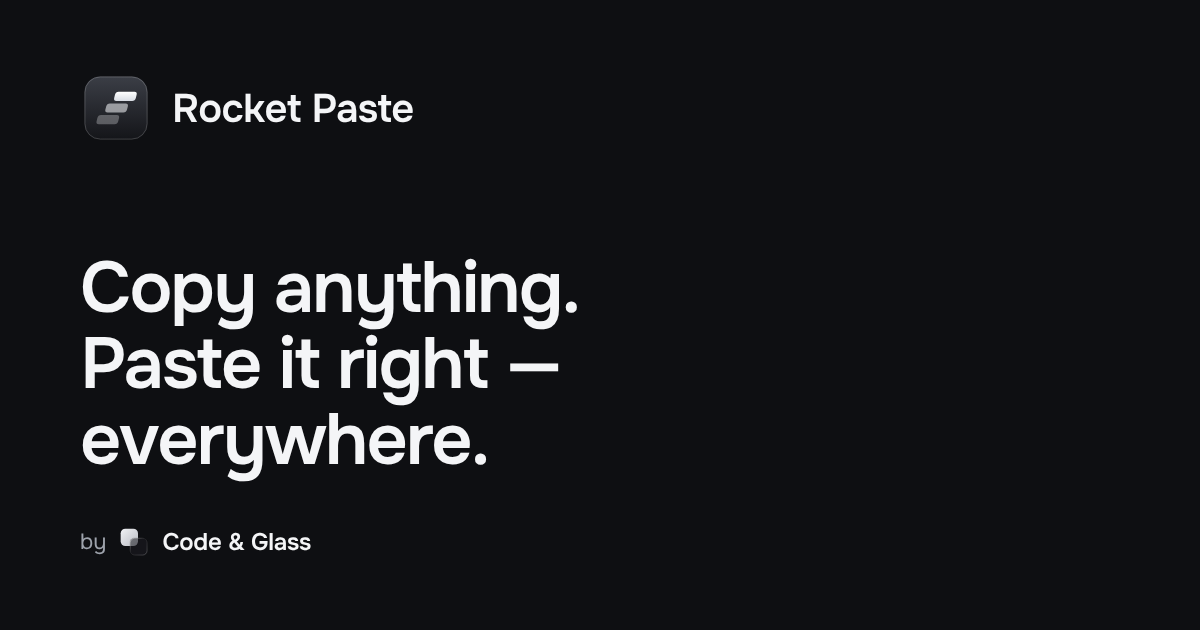
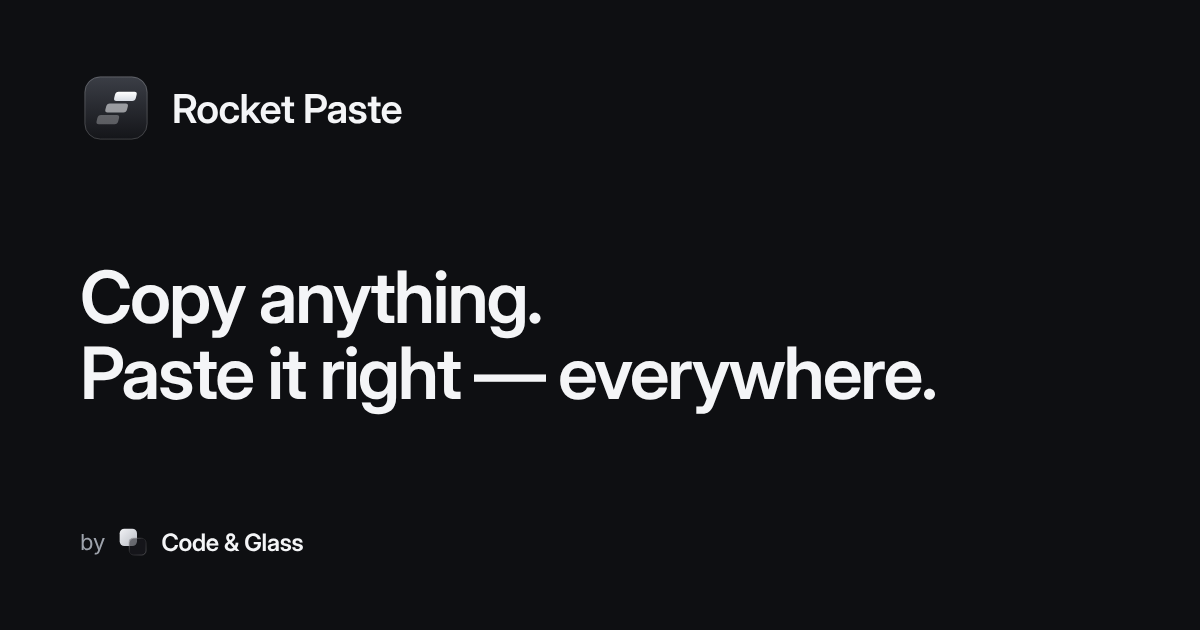
Placeholder page: Inter Display, background objects and copied cards
Back to Inter Display + Inter (founder decision). Background: steel objects
and depth-blurred cards of copied items. Coming soon pill. Share preview
centred. Mobile shows the chat only, no split or cropped UI. 50 KB per visit.

diff --git a/assets/style.css b/assets/style.css
@@ -1,1 +1,1 @@
-@font-face{font-family:"Onest";src:url(/assets/onest-600.woff2) format("woff2");font-weight:600;font-display:swap}@font-face{font-family:"Onest";src:url(/assets/onest-400.woff2) format("woff2");font-weight:400;font-display:swap}:root{color-scheme:light dark;--bg:#F5F6F8;--ink-1:#1F2126;--ink-2:#4A4D55;--ink-3:#6B707A;--line:rgb(20 25 35 / .08);--shell:#E9EBEE;--shell-edge:inset 0 1px 0 #fff,0 0 0 1px rgb(0 0 0 / .08);--sheet:#FFFFFF;--field:rgb(20 25 35 / .04);--kbd:#FFFFFF;--kbd-edge:0 0 0 .5px rgb(0 0 0 / .16),0 1px 0 rgb(0 0 0 / .06);--drop:#FFFFFF;--drop-edge:0 0 0 .5px rgb(0 0 0 / .1),0 2px 6px rgb(20 25 35 / .08);--primary:#2A2C31;--on-primary:#FFFFFF;--sel:rgb(20 25 35 / .045);--shadow:0 24px 48px rgb(20 25 35 / .12),0 4px 12px rgb(20 25 35 / .06);--bubble-in:#F0F1F3;--bubble-out:#E6EAF0;--att:rgb(255 255 255 / .7);--t-text:oklch(0.54 0.03 250);--t-image:oklch(0.54 0.07 150);--t-link:oklch(0.54 0.08 240);--t-code:oklch(0.54 0.07 195);--t-file:oklch(0.54 0.05 65);--t-color:oklch(0.54 0.07 340);--cg-a:#3B3E46;--cg-b:#141519;--cg-glass:rgb(232 234 238 / .7);--cg-line:rgb(0 0 0 / .16)}@media (prefers-color-scheme:dark){:root{--bg:#0E0F12;--ink-1:#F4F5F7;--ink-2:#C9CCD2;--ink-3:#9EA3AC;--line:rgb(255 255 255 / .08);--shell:#16171B;--shell-edge:inset 0 1px 0 rgb(255 255 255 / .08),0 0 0 1px rgb(0 0 0 / .6);--sheet:#1F2126;--field:rgb(255 255 255 / .05);--kbd:#2A2C32;--kbd-edge:inset 0 1px 0 rgb(255 255 255 / .08),0 0 0 .5px rgb(0 0 0 / .5);--drop:#2C2E34;--drop-edge:inset 0 1px 0 rgb(255 255 255 / .1),0 0 0 .5px rgb(0 0 0 / .5);--primary:#ECEDF0;--on-primary:#16171B;--sel:rgb(255 255 255 / .05);--shadow:0 24px 48px rgb(0 0 0 / .45),0 4px 12px rgb(0 0 0 / .3);--bubble-in:#24262B;--bubble-out:#2B3038;--att:rgb(255 255 255 / .06);--t-text:oklch(0.80 0.03 250);--t-image:oklch(0.80 0.07 150);--t-link:oklch(0.80 0.08 240);--t-code:oklch(0.80 0.07 195);--t-file:oklch(0.80 0.05 65);--t-color:oklch(0.80 0.07 340);--cg-a:#F1F2F5;--cg-b:#B9BCC4;--cg-glass:rgb(27 28 32 / .55);--cg-line:rgb(0 0 0 / .5)}}*{box-sizing:border-box;margin:0;padding:0}body{min-height:100vh;min-height:100dvh;display:flex;flex-direction:column;align-items:center;padding:32px 24px;background:var(--bg);color:var(--ink-1);font:16px/24px "Onest","Segoe UI Variable","Segoe UI",system-ui,-apple-system,sans-serif;-webkit-font-smoothing:antialiased}.i{fill:none;stroke:currentColor;stroke-width:1.5;stroke-linecap:round;stroke-linejoin:round;flex:none;display:block}.sr{position:absolute;width:1px;height:1px;overflow:hidden;clip:rect(0 0 0 0);white-space:nowrap}.brand{width:100%;max-width:1040px;display:flex;align-items:center;gap:8px;font:600 16px/24px "Onest",system-ui,sans-serif;letter-spacing:-.01em}.brand svg{display:block}main{flex:1;width:100%;max-width:1040px;display:flex;flex-direction:column;align-items:center;text-align:center;padding:96px 0 64px}h1{font:600 56px/60px "Onest",system-ui,sans-serif;letter-spacing:-.02em;max-width:720px;text-wrap:balance}.lead{margin-top:24px;max-width:560px;font-size:20px;line-height:28px;color:var(--ink-2);text-wrap:balance}.soon{margin-top:24px;font-size:12px;line-height:16px;font-weight:400;letter-spacing:.08em;text-transform:uppercase;color:var(--ink-3)}.mock{margin-top:64px;width:100%;display:flex;justify-content:center;align-items:flex-start;gap:32px;text-align:left;user-select:none;-webkit-user-select:none;pointer-events:none;font-family:"Segoe UI Variable","Segoe UI",system-ui,-apple-system,sans-serif;font-size:13px;line-height:18px}.mock *{-webkit-user-drag:none}.mn{font-family:ui-monospace,"Cascadia Mono",Consolas,monospace;font-size:12px}.pal{zoom:.84;width:760px;height:480px;flex:none;border-radius:20px;padding:10px 10px 0;display:flex;flex-direction:column;gap:10px;background:var(--shell);box-shadow:var(--shell-edge),var(--shadow)}.sh{background:var(--sheet);border-radius:10px;box-shadow:0 0 0 .5px var(--line)}.top{height:46px;flex:none;display:flex;align-items:center;gap:10px;padding:0 14px;color:var(--ink-3)}.q{flex:1;min-width:0;font-size:18px;line-height:24px;white-space:nowrap;overflow:hidden;text-overflow:ellipsis}.chip{display:flex;align-items:center;gap:4px;height:26px;padding:0 8px 0 10px;border-radius:8px;font-weight:600;font-size:12px;color:var(--ink-1);background:var(--kbd);box-shadow:var(--kbd-edge)}.bd{flex:1;display:flex;gap:10px;min-height:0}.list{width:296px;flex:none;padding:4px 8px;overflow:hidden}.grp{height:26px;display:flex;align-items:flex-end;padding:0 10px 5px;font-size:11px;font-weight:600;letter-spacing:.06em;text-transform:uppercase;color:var(--ink-3)}.row{height:40px;display:flex;align-items:center;gap:8px;padding:0 10px;border-radius:10px}.row.sel{background:var(--sel)}.row.on{background:var(--drop);box-shadow:var(--drop-edge)}.lb{flex:1;min-width:0;white-space:nowrap;overflow:hidden;text-overflow:ellipsis}.ap{font-size:11.5px;color:var(--ink-3)}.ti{width:24px;height:24px;flex:none;border-radius:7px;display:grid;place-items:center;color:var(--c);background:color-mix(in oklch,var(--c) 13%,transparent)}.t-code{--c:var(--t-code)}.t-link{--c:var(--t-link)}.t-text{--c:var(--t-text)}.t-file{--c:var(--t-file)}.t-color{--c:var(--t-color)}.t-image{--c:var(--t-image)}.num{width:18px;height:18px;flex:none;border-radius:9px;display:grid;place-items:center;font-size:10.5px;font-weight:600;background:var(--primary);color:var(--on-primary);font-variant-numeric:tabular-nums}.ck{width:18px;height:18px;flex:none;border-radius:9px;box-shadow:inset 0 0 0 1.5px var(--ink-3);opacity:.5}.sw{display:inline-block;width:12px;height:12px;border-radius:3px;background:#6D5DF6;vertical-align:-1px;margin-right:6px}.pv{flex:1;min-width:0;padding:16px;display:flex;flex-direction:column;gap:8px}.pvh{display:flex;justify-content:space-between;align-items:baseline;margin-bottom:4px}.pvh b{font-size:15px;line-height:20px;font-weight:600}.pvh span{font-size:12px;color:var(--ink-3)}.stack{display:flex;flex-direction:column;gap:8px}.it{height:40px;display:flex;align-items:center;gap:8px;padding:0 12px;border-radius:10px;background:var(--field)}.meta{margin-top:8px;font-size:12px;color:var(--ink-2)}.meta b{color:var(--ink-1);margin-right:6px}.bar{height:48px;flex:none;display:flex;align-items:center;gap:16px;padding:0 8px;font-size:12px;font-weight:600;color:var(--ink-2)}.bar span{display:flex;align-items:center;gap:6px}.bar .sp{flex:1}kbd{font:600 11px/1 inherit;font-family:inherit;min-width:20px;height:20px;padding:0 5px;border-radius:5px;display:inline-grid;place-items:center;color:var(--ink-2);background:var(--kbd);box-shadow:var(--kbd-edge)}kbd + kbd{margin-left:-3px}.chat{width:368px;flex:none;margin-top:32px;border-radius:16px;padding:16px;background:var(--sheet);box-shadow:0 0 0 1px var(--line),var(--shadow);display:flex;flex-direction:column;gap:16px}.ch{display:flex;align-items:center;gap:12px;padding-bottom:16px;border-bottom:1px solid var(--line)}.ch b{display:block;font-weight:600}.ch small{display:block;font-size:12px;color:var(--ink-3)}.av{width:32px;height:32px;border-radius:16px;display:grid;place-items:center;font-weight:600;background:var(--field);color:var(--ink-2);box-shadow:inset 0 0 0 1px var(--line)}.msgs{display:flex;flex-direction:column;gap:8px}.m{max-width:296px;padding:8px 12px;line-height:20px}.m.in{align-self:flex-start;border-radius:12px 12px 12px 4px;background:var(--bubble-in)}.m.out{align-self:flex-end;border-radius:12px 12px 4px 12px;background:var(--bubble-out)}.cd{color:var(--t-code)}.att{display:flex;align-items:center;gap:8px;height:40px;margin-top:8px;padding:0 8px;border-radius:8px;background:var(--att)}.att + .att{margin-top:4px}.fi{width:24px;height:24px;border-radius:6px;display:grid;place-items:center;background:var(--field);color:var(--ink-2)}.fn{flex:1;min-width:0;overflow:hidden;text-overflow:ellipsis;white-space:nowrap}.fs{font-size:12px;color:var(--ink-3);font-variant-numeric:tabular-nums}.ok{display:flex;align-items:center;gap:8px;font-size:12px;color:var(--ink-3)}.sig{display:flex;align-items:center;gap:8px;font-size:13px;color:var(--ink-3)}.sig .cg{display:block}.cgw{font:600 15px/24px "Onest",system-ui,sans-serif;letter-spacing:-.01em;color:var(--ink-1)}.code{font:600 96px/96px "Onest",system-ui,sans-serif;letter-spacing:-.04em;color:var(--ink-3)}.nf{margin-top:16px;font-size:32px;line-height:40px}.home{margin-top:32px;height:40px;display:inline-flex;align-items:center;padding:0 16px;border-radius:8px;font-size:14px;font-weight:400;text-decoration:none;color:var(--on-primary);background:var(--primary)}.home:focus-visible{outline:2px solid var(--ink-1);outline-offset:2px}@media (max-width:1100px){.mock{flex-direction:column;align-items:center;gap:24px}.chat{margin-top:0}}@media (max-width:720px){main{padding:64px 0 48px}h1{font-size:40px;line-height:44px}.lead{font-size:16px;line-height:24px}.mock{margin-top:48px}.pal{zoom:1;width:100%;max-width:368px;height:auto}.pv,.top>.i:last-child,.bar span:nth-child(3),.bar span:nth-child(5){display:none}.list{width:100%}.q{font-size:15px}.chat{width:100%;max-width:368px}}
+@font-face{font-family:"Inter Display";src:url(/assets/inter-display-600.woff2) format("woff2");font-weight:600;font-display:swap}@font-face{font-family:"Inter Text";src:url(/assets/inter-400.woff2) format("woff2");font-weight:400;font-display:swap}:root{color-scheme:light dark;--bg:#F5F6F8;--ink-1:#1F2126;--ink-2:#4A4D55;--ink-3:#6B707A;--line:rgb(20 25 35 / .08);--shell:#E9EBEE;--shell-edge:inset 0 1px 0 #fff,0 0 0 1px rgb(0 0 0 / .08);--sheet:#FFFFFF;--field:rgb(20 25 35 / .04);--kbd:#FFFFFF;--kbd-edge:0 0 0 .5px rgb(0 0 0 / .16),0 1px 0 rgb(0 0 0 / .06);--drop:#FFFFFF;--drop-edge:0 0 0 .5px rgb(0 0 0 / .1),0 2px 6px rgb(20 25 35 / .08);--primary:#2A2C31;--on-primary:#FFFFFF;--sel:rgb(20 25 35 / .045);--shadow:0 24px 48px rgb(20 25 35 / .12),0 4px 12px rgb(20 25 35 / .06);--bubble-in:#F0F1F3;--bubble-out:#E6EAF0;--att:rgb(255 255 255 / .7);--t-text:oklch(0.54 0.03 250);--t-image:oklch(0.54 0.07 150);--t-link:oklch(0.54 0.08 240);--t-code:oklch(0.54 0.07 195);--t-file:oklch(0.54 0.05 65);--t-color:oklch(0.54 0.07 340);--cg-a:#3B3E46;--cg-b:#141519;--cg-glass:rgb(232 234 238 / .7);--cg-line:rgb(0 0 0 / .16)}@media (prefers-color-scheme:dark){:root{--bg:#0E0F12;--ink-1:#F4F5F7;--ink-2:#C9CCD2;--ink-3:#9EA3AC;--line:rgb(255 255 255 / .08);--shell:#16171B;--shell-edge:inset 0 1px 0 rgb(255 255 255 / .08),0 0 0 1px rgb(0 0 0 / .6);--sheet:#1F2126;--field:rgb(255 255 255 / .05);--kbd:#2A2C32;--kbd-edge:inset 0 1px 0 rgb(255 255 255 / .08),0 0 0 .5px rgb(0 0 0 / .5);--drop:#2C2E34;--drop-edge:inset 0 1px 0 rgb(255 255 255 / .1),0 0 0 .5px rgb(0 0 0 / .5);--primary:#ECEDF0;--on-primary:#16171B;--sel:rgb(255 255 255 / .05);--shadow:0 24px 48px rgb(0 0 0 / .45),0 4px 12px rgb(0 0 0 / .3);--bubble-in:#24262B;--bubble-out:#2B3038;--att:rgb(255 255 255 / .06);--t-text:oklch(0.80 0.03 250);--t-image:oklch(0.80 0.07 150);--t-link:oklch(0.80 0.08 240);--t-code:oklch(0.80 0.07 195);--t-file:oklch(0.80 0.05 65);--t-color:oklch(0.80 0.07 340);--cg-a:#F1F2F5;--cg-b:#B9BCC4;--cg-glass:rgb(27 28 32 / .55);--cg-line:rgb(0 0 0 / .5)}}*{box-sizing:border-box;margin:0;padding:0}body{min-height:100vh;min-height:100dvh;display:flex;flex-direction:column;align-items:center;padding:32px 24px;background:var(--bg);color:var(--ink-1);font:16px/24px "Inter Text","Segoe UI Variable","Segoe UI",system-ui,-apple-system,sans-serif;-webkit-font-smoothing:antialiased}.i{fill:none;stroke:currentColor;stroke-width:1.5;stroke-linecap:round;stroke-linejoin:round;flex:none;display:block}.sr{position:absolute;width:1px;height:1px;overflow:hidden;clip:rect(0 0 0 0);white-space:nowrap}.brand{width:100%;max-width:1040px;display:flex;align-items:center;gap:8px;font:600 16px/24px "Inter Display",system-ui,sans-serif;letter-spacing:-.01em}.brand svg{display:block}main{flex:1;width:100%;max-width:1040px;display:flex;flex-direction:column;align-items:center;text-align:center;padding:96px 0 64px}h1{font:600 56px/60px "Inter Display",system-ui,sans-serif;letter-spacing:-.025em;max-width:720px;text-wrap:balance}.lead{margin-top:24px;max-width:560px;font-size:20px;line-height:28px;color:var(--ink-2);text-wrap:balance}.soon{margin-top:24px}.soon span{display:inline-flex;align-items:center;height:32px;padding:0 16px;border-radius:16px;font-size:13px;line-height:16px;font-weight:600;color:var(--ink-1);background:var(--kbd);box-shadow:var(--kbd-edge)}.mock{margin-top:64px;width:100%;display:flex;justify-content:center;align-items:flex-start;gap:32px;text-align:left;user-select:none;-webkit-user-select:none;pointer-events:none;font-family:"Segoe UI Variable","Segoe UI",system-ui,-apple-system,sans-serif;font-size:13px;line-height:18px}.mock *{-webkit-user-drag:none}.mn{font-family:ui-monospace,"Cascadia Mono",Consolas,monospace;font-size:12px}.pal{zoom:.84;width:760px;height:480px;flex:none;border-radius:20px;padding:10px 10px 0;display:flex;flex-direction:column;gap:10px;background:var(--shell);box-shadow:var(--shell-edge),var(--shadow)}.sh{background:var(--sheet);border-radius:10px;box-shadow:0 0 0 .5px var(--line)}.top{height:46px;flex:none;display:flex;align-items:center;gap:10px;padding:0 14px;color:var(--ink-3)}.q{flex:1;min-width:0;font-size:18px;line-height:24px;white-space:nowrap;overflow:hidden;text-overflow:ellipsis}.chip{display:flex;align-items:center;gap:4px;height:26px;padding:0 8px 0 10px;border-radius:8px;font-weight:600;font-size:12px;color:var(--ink-1);background:var(--kbd);box-shadow:var(--kbd-edge)}.bd{flex:1;display:flex;gap:10px;min-height:0}.list{width:296px;flex:none;padding:4px 8px;overflow:hidden}.grp{height:26px;display:flex;align-items:flex-end;padding:0 10px 5px;font-size:11px;font-weight:600;letter-spacing:.06em;text-transform:uppercase;color:var(--ink-3)}.row{height:40px;display:flex;align-items:center;gap:8px;padding:0 10px;border-radius:10px}.row.sel{background:var(--sel)}.row.on{background:var(--drop);box-shadow:var(--drop-edge)}.lb{flex:1;min-width:0;white-space:nowrap;overflow:hidden;text-overflow:ellipsis}.ap{font-size:11.5px;color:var(--ink-3)}.ti{width:24px;height:24px;flex:none;border-radius:7px;display:grid;place-items:center;color:var(--c);background:color-mix(in oklch,var(--c) 13%,transparent)}.t-code{--c:var(--t-code)}.t-link{--c:var(--t-link)}.t-text{--c:var(--t-text)}.t-file{--c:var(--t-file)}.t-color{--c:var(--t-color)}.t-image{--c:var(--t-image)}.num{width:18px;height:18px;flex:none;border-radius:9px;display:grid;place-items:center;font-size:10.5px;font-weight:600;background:var(--primary);color:var(--on-primary);font-variant-numeric:tabular-nums}.ck{width:18px;height:18px;flex:none;border-radius:9px;box-shadow:inset 0 0 0 1.5px var(--ink-3);opacity:.5}.sw{display:inline-block;width:12px;height:12px;border-radius:3px;background:#6D5DF6;vertical-align:-1px;margin-right:6px}.pv{flex:1;min-width:0;padding:16px;display:flex;flex-direction:column;gap:8px}.pvh{display:flex;justify-content:space-between;align-items:baseline;margin-bottom:4px}.pvh b{font-size:15px;line-height:20px;font-weight:600}.pvh span{font-size:12px;color:var(--ink-3)}.stack{display:flex;flex-direction:column;gap:8px}.it{height:40px;display:flex;align-items:center;gap:8px;padding:0 12px;border-radius:10px;background:var(--field)}.meta{margin-top:8px;font-size:12px;color:var(--ink-2)}.meta b{color:var(--ink-1);margin-right:6px}.bar{height:48px;flex:none;display:flex;align-items:center;gap:16px;padding:0 8px;font-size:12px;font-weight:600;color:var(--ink-2)}.bar span{display:flex;align-items:center;gap:6px}.bar .sp{flex:1}kbd{font:600 11px/1 inherit;font-family:inherit;min-width:20px;height:20px;padding:0 5px;border-radius:5px;display:inline-grid;place-items:center;color:var(--ink-2);background:var(--kbd);box-shadow:var(--kbd-edge)}kbd + kbd{margin-left:-3px}.chat{width:368px;flex:none;margin-top:32px;border-radius:16px;padding:16px;background:var(--sheet);box-shadow:0 0 0 1px var(--line),var(--shadow);display:flex;flex-direction:column;gap:16px}.ch{display:flex;align-items:center;gap:12px;padding-bottom:16px;border-bottom:1px solid var(--line)}.ch b{display:block;font-weight:600}.ch small{display:block;font-size:12px;color:var(--ink-3)}.av{width:32px;height:32px;border-radius:16px;display:grid;place-items:center;font-weight:600;background:var(--field);color:var(--ink-2);box-shadow:inset 0 0 0 1px var(--line)}.msgs{display:flex;flex-direction:column;gap:8px}.m{max-width:296px;padding:8px 12px;line-height:20px}.m.in{align-self:flex-start;border-radius:12px 12px 12px 4px;background:var(--bubble-in)}.m.out{align-self:flex-end;border-radius:12px 12px 4px 12px;background:var(--bubble-out)}.cd{color:var(--t-code)}.att{display:flex;align-items:center;gap:8px;height:40px;margin-top:8px;padding:0 8px;border-radius:8px;background:var(--att)}.att + .att{margin-top:4px}.fi{width:24px;height:24px;border-radius:6px;display:grid;place-items:center;background:var(--field);color:var(--ink-2)}.fn{flex:1;min-width:0;overflow:hidden;text-overflow:ellipsis;white-space:nowrap}.fs{font-size:12px;color:var(--ink-3);font-variant-numeric:tabular-nums}.ok{display:flex;align-items:center;gap:8px;font-size:12px;color:var(--ink-3)}.sig{display:flex;align-items:center;gap:8px;font-size:13px;color:var(--ink-3)}.sig .cg{display:block}.cgw{font:600 15px/24px "Inter Display",system-ui,sans-serif;letter-spacing:-.01em;color:var(--ink-1)}.code{font:600 96px/96px "Inter Display",system-ui,sans-serif;letter-spacing:-.04em;color:var(--ink-3)}.nf{margin-top:16px;font-size:32px;line-height:40px}.home{margin-top:32px;height:40px;display:inline-flex;align-items:center;padding:0 16px;border-radius:8px;font-size:14px;font-weight:400;text-decoration:none;color:var(--on-primary);background:var(--primary)}.home:focus-visible{outline:2px solid var(--ink-1);outline-offset:2px}@media (max-width:1100px){.mock{flex-direction:column;align-items:center;gap:24px}.chat{margin-top:0}}@media (max-width:720px){html,body{overflow-x:clip}body{padding:24px 16px}main{padding:64px 0 48px}h1{font-size:40px;line-height:44px}.lead{font-size:16px;line-height:24px}.mock{margin-top:48px;align-items:center}.pal{display:none}.chat{width:100%;max-width:368px;align-self:center}}.bgx{position:fixed;inset:0;z-index:-1;overflow:hidden;pointer-events:none}.bgx i{position:absolute;display:block}.bg-a .o1{width:520px;height:520px;left:-200px;top:-120px;border-radius:50%;background:var(--o1)}.bg-a .o2{width:560px;height:220px;right:-180px;bottom:6%;border-radius:110px;transform:rotate(-22deg);background:var(--o2)}.bg-a .o3{width:160px;height:160px;right:14%;top:18%;border-radius:50%;background:var(--o3)}.clip{position:absolute;display:flex;align-items:center;gap:8px;height:40px;padding:0 14px 0 8px;border-radius:12px;font-size:13px;white-space:nowrap;color:var(--ink-2);background:var(--sheet);box-shadow:0 0 0 1px var(--line),0 12px 32px rgb(0 0 0 / .08)}:root{--o1:radial-gradient(circle at 35% 30%,#fff,#c3cfdd 60%,#93a5bc);--o2:linear-gradient(135deg,#eef1f5,#b9c4d2);--o3:radial-gradient(circle at 35% 28%,#fff,#d4dce6 55%,#9aaabd)}@media (prefers-color-scheme:dark){:root{--o1:radial-gradient(circle at 35% 30%,#4b5a74,#1a2232 55%,#0a0d14);--o2:linear-gradient(135deg,#3b4c55,#10181d);--o3:radial-gradient(circle at 35% 28%,#f2f4f7,#8d939d 45%,#2a2d33 80%)}}@media (max-width:720px){.bg-c .clip{display:none}.bg-a .o1{width:300px;height:300px;left:-150px;top:-80px}.bg-a .o3{display:none}}

diff --git a/index.html b/index.html
@@ -21,15 +21,15 @@
 <meta property="og:image:alt" content="Rocket Paste. Copy anything. Paste it right — everywhere. By Code &amp; Glass.">
 <meta name="twitter:card" content="summary_large_image">
 <meta name="twitter:image" content="https://updates.rocketpaste.com/assets/og.png">
-<link rel="preload" href="/assets/onest-600.woff2" as="font" type="font/woff2" crossorigin>
+<link rel="preload" href="/assets/inter-display-600.woff2" as="font" type="font/woff2" crossorigin>
 <link rel="stylesheet" href="/assets/style.css">
 </head>
-<body>
-<header class="brand"><svg width="28" height="28" viewBox="0 0 256 256" aria-hidden="true"><defs><linearGradient id="tb" x1="0" y1="0" x2="0" y2="1"><stop offset="0" stop-color="#3B3E46"/><stop offset="1" stop-color="#141519"/></linearGradient><linearGradient id="ps" x1="0" y1="0" x2="0" y2="1"><stop offset="0" stop-color="#fff"/><stop offset="1" stop-color="#D9DDE4"/></linearGradient></defs><rect x="16" y="16" width="224" height="224" rx="56" fill="url(#tb)"/><rect x="17.5" y="17.5" width="221" height="221" rx="54.5" fill="none" stroke="#fff" stroke-opacity=".22" stroke-width="3"/><g transform="translate(44 44) scale(7)"><g transform="translate(4.8 0) skewX(-14)"><rect x="2" y="15.6" width="11" height="4.6" rx="1.5" fill="#EDEFF3" fill-opacity=".3"/><rect x="5" y="9.7" width="11" height="4.6" rx="1.5" fill="#EDEFF3" fill-opacity=".58"/><rect x="8" y="3.8" width="11" height="4.6" rx="1.5" fill="url(#ps)"/></g></g></svg><span>Rocket Paste</span></header>
+<body class="bg-a bg-c">
+<div class="bgx" aria-hidden="true"><i class="o1"></i><i class="o2"></i><i class="o3"></i><div class="clip" style="left:16%;top:26%;filter:blur(0px);transform:rotate(-4deg)"><span class="ti t-code"><svg class="i" width="14" height="14" viewBox="0 0 24 24" aria-hidden="true"><path d="m18 16 4-4-4-4"/><path d="m6 8-4 4 4 4"/><path d="m14.5 4-5 16"/></svg></span>git rebase -i HEAD~3</div><div class="clip" style="left:70%;top:8%;filter:blur(1.5px);transform:rotate(5deg)"><span class="ti t-image"><svg class="i" width="14" height="14" viewBox="0 0 24 24" aria-hidden="true"><rect width="18" height="18" x="3" y="3" rx="2" ry="2"/><circle cx="9" cy="9" r="2"/><path d="m21 15-3.086-3.086a2 2 0 0 0-2.828 0L6 21"/></svg></span>Screenshot 14:02</div><div class="clip" style="left:79%;top:38%;filter:blur(3px);transform:rotate(-3deg)"><span class="ti t-link"><svg class="i" width="14" height="14" viewBox="0 0 24 24" aria-hidden="true"><path d="M10 13a5 5 0 0 0 7.54.54l3-3a5 5 0 0 0-7.07-7.07l-1.72 1.71"/><path d="M14 11a5 5 0 0 0-7.54-.54l-3 3a5 5 0 0 0 7.07 7.07l1.71-1.71"/></svg></span>rocketpaste.com</div><div class="clip" style="left:4%;top:46%;filter:blur(2.5px);transform:rotate(4deg)"><span class="ti t-color"><svg class="i" width="14" height="14" viewBox="0 0 24 24" aria-hidden="true"><circle cx="13.5" cy="6.5" r=".5" fill="currentColor"/><circle cx="17.5" cy="10.5" r=".5" fill="currentColor"/><circle cx="8.5" cy="7.5" r=".5" fill="currentColor"/><circle cx="6.5" cy="12.5" r=".5" fill="currentColor"/><path d="M12 2C6.5 2 2 6.5 2 12s4.5 10 10 10c.926 0 1.648-.746 1.648-1.688 0-.437-.18-.835-.437-1.125-.29-.289-.438-.652-.438-1.125a1.64 1.64 0 0 1 1.668-1.668h1.996c3.051 0 5.555-2.503 5.555-5.554C21.965 6.012 17.461 2 12 2z"/></svg></span>#6D5DF6</div><div class="clip" style="left:8%;top:70%;filter:blur(4px);transform:rotate(-6deg)"><span class="ti t-file"><svg class="i" width="14" height="14" viewBox="0 0 24 24" aria-hidden="true"><path d="M20 7h-3a2 2 0 0 1-2-2V2"/><path d="M9 18a2 2 0 0 1-2-2V4a2 2 0 0 1 2-2h7l4 4v10a2 2 0 0 1-2 2Z"/><path d="M3 7.6v12.8A1.6 1.6 0 0 0 4.6 22h9.8"/></svg></span>report.pdf · 1.2 MB</div><div class="clip" style="left:84%;top:64%;filter:blur(5px);transform:rotate(6deg)"><span class="ti t-text"><svg class="i" width="14" height="14" viewBox="0 0 24 24" aria-hidden="true"><path d="M15 2H6a2 2 0 0 0-2 2v16a2 2 0 0 0 2 2h12a2 2 0 0 0 2-2V7Z"/><path d="M14 2v4a2 2 0 0 0 2 2h4"/><path d="M10 9H8"/><path d="M16 13H8"/><path d="M16 17H8"/></svg></span>Release notes</div></div><header class="brand"><svg width="28" height="28" viewBox="0 0 256 256" aria-hidden="true"><defs><linearGradient id="tb" x1="0" y1="0" x2="0" y2="1"><stop offset="0" stop-color="#3B3E46"/><stop offset="1" stop-color="#141519"/></linearGradient><linearGradient id="ps" x1="0" y1="0" x2="0" y2="1"><stop offset="0" stop-color="#fff"/><stop offset="1" stop-color="#D9DDE4"/></linearGradient></defs><rect x="16" y="16" width="224" height="224" rx="56" fill="url(#tb)"/><rect x="17.5" y="17.5" width="221" height="221" rx="54.5" fill="none" stroke="#fff" stroke-opacity=".22" stroke-width="3"/><g transform="translate(44 44) scale(7)"><g transform="translate(4.8 0) skewX(-14)"><rect x="2" y="15.6" width="11" height="4.6" rx="1.5" fill="#EDEFF3" fill-opacity=".3"/><rect x="5" y="9.7" width="11" height="4.6" rx="1.5" fill="#EDEFF3" fill-opacity=".58"/><rect x="8" y="3.8" width="11" height="4.6" rx="1.5" fill="url(#ps)"/></g></g></svg><span>Rocket Paste</span></header>
 <main>
 <h1>Copy anything. Paste it right — everywhere.</h1>
 <p class="lead">Clipboard history, boards and blocks — pasted in the right format for every app.</p>
-<p class="soon">Coming soon</p>
+<p class="soon"><span>Coming soon</span></p>
 <p class="sr">Illustration: the Rocket Paste palette with four selected items, and a Telegram chat where they were pasted as one message with three attached files.</p>
 <div class="mock" aria-hidden="true"><div class="pal">
 <div class="sh top"><svg class="i" width="16" height="16" viewBox="0 0 24 24" aria-hidden="true"><circle cx="11" cy="11" r="8"/><path d="m21 21-4.3-4.3"/></svg><span class="q">Search history, boards, text in images…</span><span class="chip">Inbox <svg class="i" width="12" height="12" viewBox="0 0 24 24" aria-hidden="true"><path d="m6 9 6 6 6-6"/></svg></span><svg class="i" width="14" height="14" viewBox="0 0 24 24" aria-hidden="true"><path d="M12.22 2h-.44a2 2 0 0 0-2 2v.18a2 2 0 0 1-1 1.73l-.43.25a2 2 0 0 1-2 0l-.15-.08a2 2 0 0 0-2.73.73l-.22.38a2 2 0 0 0 .73 2.73l.15.1a2 2 0 0 1 1 1.72v.51a2 2 0 0 1-1 1.74l-.15.09a2 2 0 0 0-.73 2.73l.22.38a2 2 0 0 0 2.73.73l.15-.08a2 2 0 0 1 2 0l.43.25a2 2 0 0 1 1 1.73V20a2 2 0 0 0 2 2h.44a2 2 0 0 0 2-2v-.18a2 2 0 0 1 1-1.73l.43-.25a2 2 0 0 1 2 0l.15.08a2 2 0 0 0 2.73-.73l.22-.39a2 2 0 0 0-.73-2.73l-.15-.08a2 2 0 0 1-1-1.74v-.5a2 2 0 0 1 1-1.74l.15-.09a2 2 0 0 0 .73-2.73l-.22-.38a2 2 0 0 0-2.73-.73l-.15.08a2 2 0 0 1-2 0l-.43-.25a2 2 0 0 1-1-1.73V4a2 2 0 0 0-2-2z"/><circle cx="12" cy="12" r="3"/></svg></div>

diff --git a/404.html b/404.html
@@ -21,11 +21,11 @@
 <meta property="og:image:alt" content="Rocket Paste. Copy anything. Paste it right — everywhere. By Code &amp; Glass.">
 <meta name="twitter:card" content="summary_large_image">
 <meta name="twitter:image" content="https://updates.rocketpaste.com/assets/og.png">
-<link rel="preload" href="/assets/onest-600.woff2" as="font" type="font/woff2" crossorigin>
+<link rel="preload" href="/assets/inter-display-600.woff2" as="font" type="font/woff2" crossorigin>
 <link rel="stylesheet" href="/assets/style.css">
 </head>
-<body>
-<header class="brand"><svg width="28" height="28" viewBox="0 0 256 256" aria-hidden="true"><defs><linearGradient id="tb" x1="0" y1="0" x2="0" y2="1"><stop offset="0" stop-color="#3B3E46"/><stop offset="1" stop-color="#141519"/></linearGradient><linearGradient id="ps" x1="0" y1="0" x2="0" y2="1"><stop offset="0" stop-color="#fff"/><stop offset="1" stop-color="#D9DDE4"/></linearGradient></defs><rect x="16" y="16" width="224" height="224" rx="56" fill="url(#tb)"/><rect x="17.5" y="17.5" width="221" height="221" rx="54.5" fill="none" stroke="#fff" stroke-opacity=".22" stroke-width="3"/><g transform="translate(44 44) scale(7)"><g transform="translate(4.8 0) skewX(-14)"><rect x="2" y="15.6" width="11" height="4.6" rx="1.5" fill="#EDEFF3" fill-opacity=".3"/><rect x="5" y="9.7" width="11" height="4.6" rx="1.5" fill="#EDEFF3" fill-opacity=".58"/><rect x="8" y="3.8" width="11" height="4.6" rx="1.5" fill="url(#ps)"/></g></g></svg><span>Rocket Paste</span></header>
+<body class="bg-a bg-c">
+<div class="bgx" aria-hidden="true"><i class="o1"></i><i class="o2"></i><i class="o3"></i><div class="clip" style="left:16%;top:26%;filter:blur(0px);transform:rotate(-4deg)"><span class="ti t-code"><svg class="i" width="14" height="14" viewBox="0 0 24 24" aria-hidden="true"><path d="m18 16 4-4-4-4"/><path d="m6 8-4 4 4 4"/><path d="m14.5 4-5 16"/></svg></span>git rebase -i HEAD~3</div><div class="clip" style="left:70%;top:8%;filter:blur(1.5px);transform:rotate(5deg)"><span class="ti t-image"><svg class="i" width="14" height="14" viewBox="0 0 24 24" aria-hidden="true"><rect width="18" height="18" x="3" y="3" rx="2" ry="2"/><circle cx="9" cy="9" r="2"/><path d="m21 15-3.086-3.086a2 2 0 0 0-2.828 0L6 21"/></svg></span>Screenshot 14:02</div><div class="clip" style="left:79%;top:38%;filter:blur(3px);transform:rotate(-3deg)"><span class="ti t-link"><svg class="i" width="14" height="14" viewBox="0 0 24 24" aria-hidden="true"><path d="M10 13a5 5 0 0 0 7.54.54l3-3a5 5 0 0 0-7.07-7.07l-1.72 1.71"/><path d="M14 11a5 5 0 0 0-7.54-.54l-3 3a5 5 0 0 0 7.07 7.07l1.71-1.71"/></svg></span>rocketpaste.com</div><div class="clip" style="left:4%;top:46%;filter:blur(2.5px);transform:rotate(4deg)"><span class="ti t-color"><svg class="i" width="14" height="14" viewBox="0 0 24 24" aria-hidden="true"><circle cx="13.5" cy="6.5" r=".5" fill="currentColor"/><circle cx="17.5" cy="10.5" r=".5" fill="currentColor"/><circle cx="8.5" cy="7.5" r=".5" fill="currentColor"/><circle cx="6.5" cy="12.5" r=".5" fill="currentColor"/><path d="M12 2C6.5 2 2 6.5 2 12s4.5 10 10 10c.926 0 1.648-.746 1.648-1.688 0-.437-.18-.835-.437-1.125-.29-.289-.438-.652-.438-1.125a1.64 1.64 0 0 1 1.668-1.668h1.996c3.051 0 5.555-2.503 5.555-5.554C21.965 6.012 17.461 2 12 2z"/></svg></span>#6D5DF6</div><div class="clip" style="left:8%;top:70%;filter:blur(4px);transform:rotate(-6deg)"><span class="ti t-file"><svg class="i" width="14" height="14" viewBox="0 0 24 24" aria-hidden="true"><path d="M20 7h-3a2 2 0 0 1-2-2V2"/><path d="M9 18a2 2 0 0 1-2-2V4a2 2 0 0 1 2-2h7l4 4v10a2 2 0 0 1-2 2Z"/><path d="M3 7.6v12.8A1.6 1.6 0 0 0 4.6 22h9.8"/></svg></span>report.pdf · 1.2 MB</div><div class="clip" style="left:84%;top:64%;filter:blur(5px);transform:rotate(6deg)"><span class="ti t-text"><svg class="i" width="14" height="14" viewBox="0 0 24 24" aria-hidden="true"><path d="M15 2H6a2 2 0 0 0-2 2v16a2 2 0 0 0 2 2h12a2 2 0 0 0 2-2V7Z"/><path d="M14 2v4a2 2 0 0 0 2 2h4"/><path d="M10 9H8"/><path d="M16 13H8"/><path d="M16 17H8"/></svg></span>Release notes</div></div><header class="brand"><svg width="28" height="28" viewBox="0 0 256 256" aria-hidden="true"><defs><linearGradient id="tb" x1="0" y1="0" x2="0" y2="1"><stop offset="0" stop-color="#3B3E46"/><stop offset="1" stop-color="#141519"/></linearGradient><linearGradient id="ps" x1="0" y1="0" x2="0" y2="1"><stop offset="0" stop-color="#fff"/><stop offset="1" stop-color="#D9DDE4"/></linearGradient></defs><rect x="16" y="16" width="224" height="224" rx="56" fill="url(#tb)"/><rect x="17.5" y="17.5" width="221" height="221" rx="54.5" fill="none" stroke="#fff" stroke-opacity=".22" stroke-width="3"/><g transform="translate(44 44) scale(7)"><g transform="translate(4.8 0) skewX(-14)"><rect x="2" y="15.6" width="11" height="4.6" rx="1.5" fill="#EDEFF3" fill-opacity=".3"/><rect x="5" y="9.7" width="11" height="4.6" rx="1.5" fill="#EDEFF3" fill-opacity=".58"/><rect x="8" y="3.8" width="11" height="4.6" rx="1.5" fill="url(#ps)"/></g></g></svg><span>Rocket Paste</span></header>
 <main>
 <p class="code">404</p>
 <h1 class="nf">Page not found</h1>
